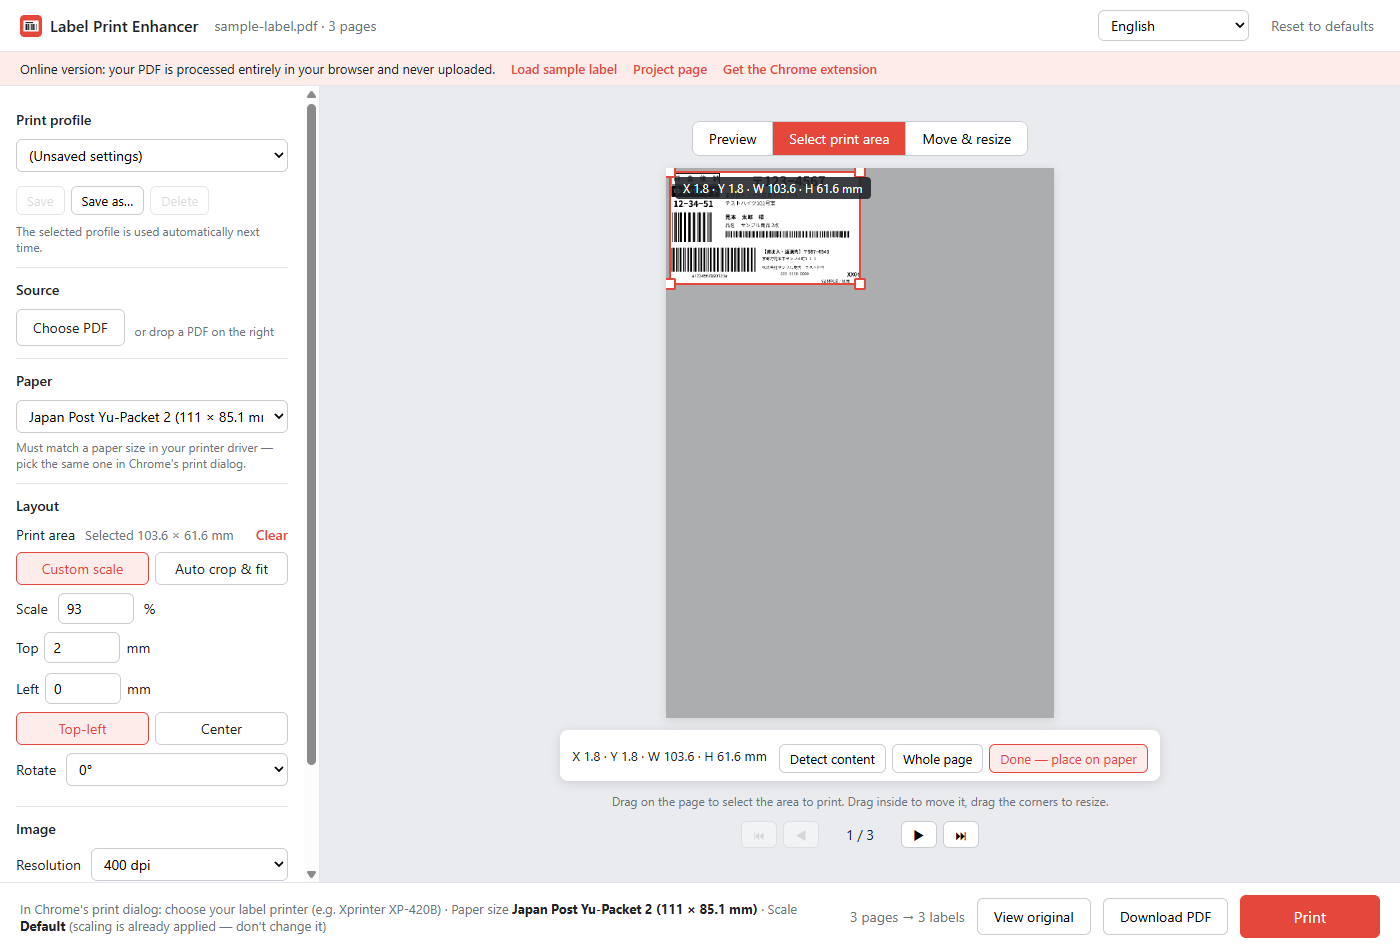
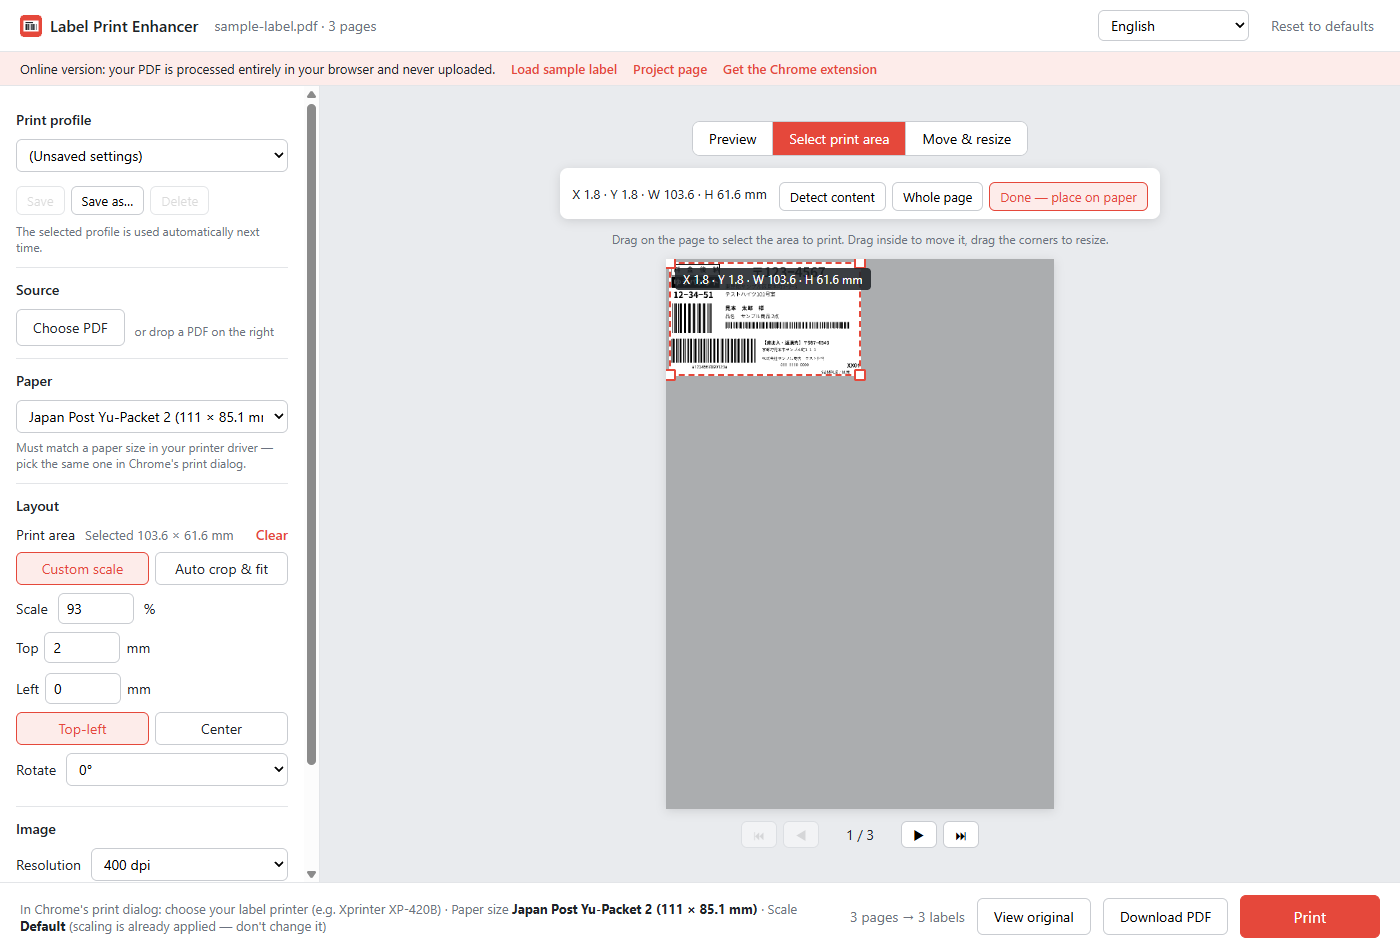
fix: keep the edit toolbar clear of the selection box
In "Move & resize", a whole-page selection (e.g. A4 on 100x150 paper) made a
box far larger than the paper that covered the Done/Center buttons and
swallowed their clicks.

- Move the edit toolbar and hint above the paper, right under the view tabs
- Controls always stack above the selection box, so they stay clickable even
  at 400% scale
- Entering Move & resize without a selection (or in auto-fit mode) now tightens
  the box to the detected label area, keeping the printed position unchanged
- e2e: reproduces the reported case (custom 100x150, whole page, 94.9%)

Changed region(s): [[0.43, 0.1526, 0.8293, 0.3968], [0.43, 0.7326, 0.8293, 0.8547]]

diff --git a/viewer/visual.js b/viewer/visual.js
@@ -160,13 +160,37 @@ export function createVisualEditor({ getState, applyPatch, onError }) {
     return { box: r.box, guides: { x: r.centeredX, y: r.centeredY } };
   }
 
+  /**
+   * 整页（没框选）的内容框往往比纸大得多（A4 放在 100×150 纸上），四角拖不到还会盖住按钮。
+   * 进入拖动调整前先把框收紧到识别出的内容区域，位置和比例不变，打印效果一样。
+   * 自动适配模式同理：换算成「比例 + 边距」，框就是自动适配算出来的位置。
+   */
+  async function tightenToContent(token) {
+    const { settings } = getState();
+    if (settings.crop && settings.fitMode !== 'auto') return;
+    const crop = settings.crop ?? (await proposeCrop());
+    if (!crop || token !== seq) return;
+    let box;
+    if (settings.fitMode === 'auto') {
+      box = fitBoxToPaper({ x: 0, y: 0, w: ptToMm(crop.w), h: ptToMm(crop.h) }, paperMm(settings), settings.autoPadding);
+    } else {
+      const whole = contentBoxOnPaper(settings, sourceRect(settings, src.w, src.h));
+      const k = whole.w / src.w; // mm / pt
+      box = { x: whole.x + crop.x * k, y: whole.y + crop.y * k, w: crop.w * k, h: crop.h * k };
+    }
+    applyPatch({ crop, ...settingsFromBox(crop, box) });
+  }
+
   async function enterArrange(token) {
-    const { pdf, page, settings } = getState();
-    src = await sourceSize(pdf, page, settings);
+    const { pdf, page } = getState();
+    src = await sourceSize(pdf, page, getState().settings);
+    if (token !== seq) return;
+    await tightenToContent(token);
     if (token !== seq) return;
     await ensureLayer(token);
     if (token !== seq) return;
     paperStage.classList.add('arranging');
+    const { settings } = getState();
     const box = contentBoxOnPaper(settings, sourceRect(settings, src.w, src.h));
     placeLayer(box);
     editor = createBoxEditor({

diff --git a/viewer.html b/viewer.html
@@ -124,13 +124,6 @@
         <button type="button" data-view="select" data-i18n="mode.select"></button>
         <button type="button" data-view="arrange" data-i18n="mode.arrange"></button>
       </div>
-      <div class="paper-tag" id="paperTag"></div>
-      <div class="paper-stage" id="paperStage">
-        <div class="paper-wrap" id="paperWrap">
-          <div class="empty" id="empty" data-i18n="empty"></div>
-        </div>
-      </div>
-      <div class="source-wrap" id="sourceWrap"></div>
       <div class="edit-bar" id="editBar" hidden>
         <span class="edit-text" id="editReadout"></span>
         <span class="edit-actions" data-for-view="select">
@@ -146,6 +139,13 @@
       </div>
       <p class="edit-hint" data-for-view="select" data-i18n="select.hint" hidden></p>
       <p class="edit-hint" data-for-view="arrange" data-i18n="arrange.hint" hidden></p>
+      <div class="paper-tag" id="paperTag"></div>
+      <div class="paper-stage" id="paperStage">
+        <div class="paper-wrap" id="paperWrap">
+          <div class="empty" id="empty" data-i18n="empty"></div>
+        </div>
+      </div>
+      <div class="source-wrap" id="sourceWrap"></div>
       <nav class="pager">
         <button id="first" type="button" data-i18n-title="pager.first">⏮</button>
         <button id="prev" type="button" data-i18n-title="pager.prev">◀</button>

diff --git a/viewer.css b/viewer.css
@@ -199,3 +199,9 @@ input[type="checkbox"], input[type="radio"] { accent-color: var(--accent); }
 :root:lang(ja) { font-family: "Yu Gothic UI", "Yu Gothic", Meiryo, "Hiragino Sans", "Noto Sans JP", system-ui, sans-serif; }
 :root:lang(zh-CN) { font-family: "Microsoft YaHei UI", "Microsoft YaHei", "PingFang SC", "Noto Sans SC", system-ui, sans-serif; }
 :root:lang(en) { font-family: "Segoe UI", system-ui, -apple-system, sans-serif; }
+
+/* 编辑时选框可能超出纸张：所有控件压在选框上面，点击不会被框截走 */
+.stage-tools, .edit-bar, .edit-hint, .paper-tag, .pager, .message { position: relative; z-index: 5; }
+.message { position: absolute; }
+.edit-layer { z-index: 1; }
+.edit-hint { background: var(--stage); padding: 0 6px; border-radius: 4px; }
